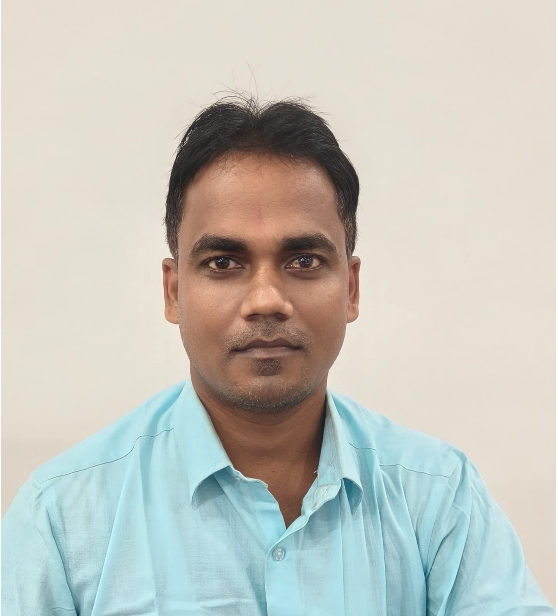
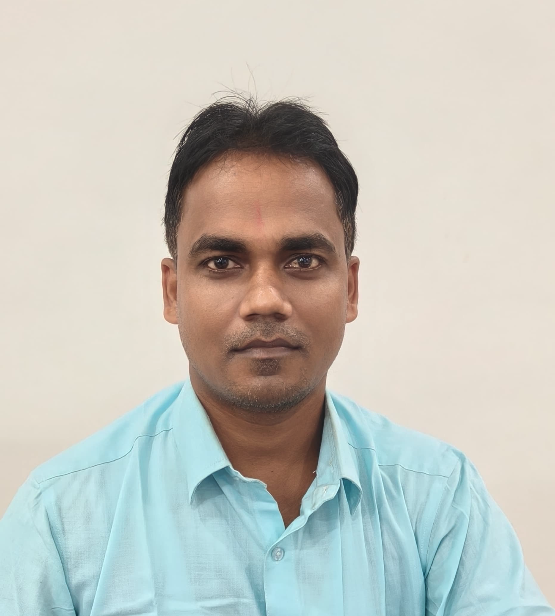
update themes

diff --git a/index.html b/index.html
@@ -58,7 +58,7 @@
   <script src="https://cdn.jsdelivr.net/npm/canvas-confetti@1.9.3/dist/confetti.browser.min.js"></script>
 
   <!-- Custom Design System Stylesheet -->
-  <link rel="stylesheet" href="assets/css/style.css?v=2.2">
+  <link rel="stylesheet" href="assets/css/style.css?v=2.4">
 </head>
 <body class="bg-[#f8fafc] dark:bg-[#070b14] text-slate-800 dark:text-slate-100 min-h-screen selection:bg-sky-500 selection:text-white relative overflow-x-hidden transition-colors duration-300">
 
@@ -83,7 +83,7 @@
       <!-- Brand / Logo -->
       <a href="#hero" class="flex items-center gap-3 group">
         <div class="relative w-11 h-11 rounded-2xl p-[2px] bg-gradient-to-tr from-sky-500 via-cyan-400 to-indigo-500 shadow-md shrink-0 transition-transform group-hover:scale-105 duration-300">
-          <img src="assets/images/dina-profile.png?v=2.2" alt="Dina Nath Maurya" class="w-full h-full object-cover rounded-[14px]">
+          <img src="assets/images/dina-profile.png?v=2.4" alt="Dina Nath Maurya" class="w-full h-full object-cover rounded-[14px]">
           <span class="absolute -bottom-1 -right-1 w-3.5 h-3.5 rounded-full bg-emerald-500 border-2 border-white dark:border-[#070b14] animate-pulse"></span>
         </div>
         <div>
@@ -268,52 +268,70 @@
 
         <!-- Profile Avatar & Badges Showcase -->
         <div class="lg:col-span-5 flex flex-col items-center justify-center order-1 lg:order-2 reveal-scale">
-          <div class="relative w-72 sm:w-80 md:w-88 aspect-square mb-6">
+          <div class="relative w-72 sm:w-80 aspect-[4/5] mb-5 profile-showcase-container group">
             
-            <!-- Conic Rotating Glow Ring -->
-            <div class="glow-ring-conic rounded-3xl"></div>
+            <!-- Dynamic Radiant Ambient Backlight Aura -->
+            <div class="profile-ambient-glow"></div>
 
-            <!-- Profile Image Container -->
-            <div class="w-full h-full rounded-3xl p-2.5 bg-white dark:bg-slate-900 border border-slate-200 dark:border-slate-800 shadow-2xl relative overflow-hidden group">
-              <img src="assets/images/dina-profile.png?v=2.2" alt="Dina Nath Maurya" class="w-full h-full object-cover rounded-2xl group-hover:scale-103 transition-transform duration-500">
-              <div class="absolute inset-0 bg-gradient-to-t from-slate-950/80 via-transparent to-transparent"></div>
+            <!-- Stylist Cyber Gradient Frame (2px Neon Contour, Zero Harsh White Line) -->
+            <div class="w-full h-full profile-cyber-card">
+              <div class="profile-inner-frame">
+                <!-- Tech HUD Reticle Corners -->
+                <span class="hud-corner hud-corner-tl"></span>
+                <span class="hud-corner hud-corner-tr"></span>
+                <span class="hud-corner hud-corner-bl"></span>
+                <span class="hud-corner hud-corner-br"></span>
 
-              <!-- Overlay Tag -->
-              <div class="absolute bottom-3 left-3 right-3 p-3 rounded-2xl bg-white/90 dark:bg-slate-900/90 backdrop-blur-md border border-white/40 dark:border-slate-800 flex items-center justify-between shadow-lg">
-                <div>
-                  <p class="text-xs sm:text-sm font-bold text-slate-900 dark:text-white font-heading">Dina Nath Maurya</p>
-                  <p class="text-[10px] text-sky-600 dark:text-cyan-400 font-mono">Senior Lead • Tryeno & Del-Qui Japan</p>
+                <!-- Real Portrait Photo (Zero Border Artifacts) -->
+                <img src="assets/images/dina-profile.png?v=2.4" alt="Dina Nath Maurya" class="profile-img-styled">
+
+                <!-- Smooth Cinematic Vignette at Base -->
+                <div class="profile-bottom-vignette"></div>
+
+                <!-- Integrated Bottom Identity Strip (Placed gently below neckline, never touching face) -->
+                <div class="absolute bottom-3 left-3 right-3 p-2.5 rounded-2xl bg-slate-950/85 backdrop-blur-md border border-white/10 flex items-center justify-between z-10 shadow-xl">
+                  <div class="flex items-center gap-2.5">
+                    <span class="relative flex h-2.5 w-2.5">
+                      <span class="animate-ping absolute inline-flex h-full w-full rounded-full bg-emerald-400 opacity-75"></span>
+                      <span class="relative inline-flex rounded-full h-2.5 w-2.5 bg-emerald-500"></span>
+                    </span>
+                    <div>
+                      <p class="text-xs sm:text-sm font-bold text-white font-heading leading-tight">Dina Nath Maurya</p>
+                      <p class="text-[10px] text-cyan-300 font-mono">Senior Flutter Lead • 6.5+ Yrs</p>
+                    </div>
+                  </div>
+                  <span class="text-[9px] font-mono font-bold px-2 py-0.5 rounded-md bg-emerald-500/20 text-emerald-300 border border-emerald-500/40">
+                    VERIFIED
+                  </span>
                 </div>
-                <span class="text-[10px] font-mono font-bold px-2.5 py-1 rounded-lg bg-sky-100 text-sky-800 dark:bg-sky-950 dark:text-cyan-300 border border-sky-300 dark:border-cyan-800">
-                  LEAD
-                </span>
               </div>
             </div>
 
-            <!-- Floating Badge 1 (Flutter) -->
-            <div class="absolute -top-3 -left-3 sm:-left-4 px-3.5 py-2 rounded-2xl bg-white/95 dark:bg-slate-900/95 border border-slate-200 dark:border-slate-800 shadow-xl flex items-center gap-2.5 animate-float-slow backdrop-blur-md">
-              <span class="text-base">⚡</span>
+            <!-- Floating Glass HUD Chips (Positioned safely outside photo boundaries) -->
+            <!-- Chip 1: Architecture (Top-Left) -->
+            <div class="glass-hud-chip -top-3.5 -left-3 sm:-left-5 animate-float-slow">
+              <span class="w-6 h-6 rounded-lg bg-sky-500/15 text-sky-600 dark:text-cyan-400 flex items-center justify-center font-bold text-xs">⚡</span>
               <div class="text-left">
-                <p class="text-[9px] text-slate-400 font-mono leading-none">Core</p>
-                <p class="text-xs font-bold text-slate-800 dark:text-white font-heading">Flutter 3.x & Dart</p>
+                <p class="text-[9px] text-slate-400 font-mono leading-none">Architecture</p>
+                <p class="text-xs font-bold text-slate-800 dark:text-white font-heading">Flutter 3.x Lead</p>
               </div>
             </div>
 
-            <!-- Floating Badge 2 (Shipped Apps) -->
-            <div class="absolute -bottom-3 -left-2 sm:-left-3 px-3.5 py-2 rounded-2xl bg-white/95 dark:bg-slate-900/95 border border-slate-200 dark:border-slate-800 shadow-xl flex items-center gap-2.5 animate-float-delayed backdrop-blur-md">
-              <span class="text-base">🚀</span>
+            <!-- Chip 2: Global Client (Top-Right) -->
+            <div class="glass-hud-chip -top-3.5 -right-3 sm:-right-5 animate-float-delayed">
+              <span class="w-6 h-6 rounded-lg bg-indigo-500/15 flex items-center justify-center text-xs">🇯🇵</span>
               <div class="text-left">
-                <p class="text-[9px] text-slate-400 font-mono leading-none">Stores</p>
+                <p class="text-[9px] text-slate-400 font-mono leading-none">Global Client</p>
+                <p class="text-xs font-bold text-slate-800 dark:text-white font-heading">Del-Qui Japan</p>
+              </div>
+            </div>
+
+            <!-- Chip 3: Production (Bottom-Right, floated outside) -->
+            <div class="glass-hud-chip -bottom-3.5 -right-3 sm:-right-5 animate-float-slow">
+              <span class="w-6 h-6 rounded-lg bg-emerald-500/15 text-emerald-600 dark:text-emerald-400 flex items-center justify-center font-bold text-xs">🚀</span>
+              <div class="text-left">
+                <p class="text-[9px] text-slate-400 font-mono leading-none">Production</p>
                 <p class="text-xs font-bold text-slate-800 dark:text-white font-heading">10 Live Store Apps</p>
-              </div>
-            </div>
-
-            <!-- Floating Badge 3 (Agora RTC) -->
-            <div class="absolute top-1/2 -right-3 sm:-right-5 px-3.5 py-2 rounded-2xl bg-white/95 dark:bg-slate-900/95 border border-slate-200 dark:border-slate-800 shadow-xl flex items-center gap-2.5 animate-float-slow backdrop-blur-md">
-              <span class="text-base">🎥</span>
-              <div class="text-left">
-                <p class="text-[9px] text-slate-400 font-mono leading-none">Real-Time</p>
-                <p class="text-xs font-bold text-slate-800 dark:text-white font-heading">Agora RTC & Sockets</p>
               </div>
             </div>
 
@@ -1042,6 +1060,6 @@
   </div>
 
   <!-- Main JavaScript Engine -->
-  <script src="assets/js/main.js?v=2.2"></script>
+  <script src="assets/js/main.js?v=2.4"></script>
 </body>
 </html>

diff --git a/assets/css/style.css b/assets/css/style.css
@@ -615,3 +615,150 @@ html.dark .dock-item:hover, html.dark .dock-item.active {
     height: 36px;
   }
 }
+
+/* ==========================================================================
+   Hero Profile Showcase (Sleek Cyber Glass Styling - Zero White Border)
+   ========================================================================== */
+.profile-showcase-container {
+  position: relative;
+  isolation: isolate;
+}
+
+.profile-ambient-glow {
+  position: absolute;
+  inset: -14px;
+  background: radial-gradient(circle at 30% 20%, rgba(6, 182, 212, 0.4), transparent 65%),
+              radial-gradient(circle at 70% 80%, rgba(99, 102, 241, 0.35), transparent 65%),
+              radial-gradient(circle at 50% 50%, rgba(14, 165, 233, 0.3), transparent 70%);
+  filter: blur(28px);
+  border-radius: 40px;
+  opacity: 0.85;
+  transition: opacity 0.5s ease, filter 0.5s ease;
+  z-index: 0;
+  pointer-events: none;
+}
+
+.profile-showcase-container:hover .profile-ambient-glow {
+  opacity: 1;
+  filter: blur(36px);
+}
+
+.profile-cyber-card {
+  position: relative;
+  border-radius: 32px;
+  padding: 2px;
+  background: linear-gradient(135deg, rgba(6, 182, 212, 0.85) 0%, rgba(59, 130, 246, 0.5) 35%, rgba(99, 102, 241, 0.75) 70%, rgba(20, 184, 166, 0.85) 100%);
+  box-shadow: 0 20px 50px -15px rgba(2, 132, 199, 0.25),
+              0 0 30px -5px rgba(6, 182, 212, 0.18);
+  overflow: hidden;
+  transition: transform 0.4s cubic-bezier(0.16, 1, 0.3, 1), box-shadow 0.4s ease;
+}
+
+.profile-showcase-container:hover .profile-cyber-card {
+  transform: translateY(-4px) scale(1.01);
+  box-shadow: 0 30px 60px -15px rgba(2, 132, 199, 0.35),
+              0 0 45px -5px rgba(6, 182, 212, 0.28);
+}
+
+.profile-inner-frame {
+  position: relative;
+  width: 100%;
+  height: 100%;
+  border-radius: 30px;
+  overflow: hidden;
+  background: #0b1121;
+}
+
+.profile-img-styled {
+  width: 100%;
+  height: 100%;
+  object-fit: cover;
+  object-position: top center;
+  display: block;
+  transition: transform 0.6s cubic-bezier(0.16, 1, 0.3, 1);
+}
+
+.profile-showcase-container:hover .profile-img-styled {
+  transform: scale(1.04);
+}
+
+.profile-bottom-vignette {
+  position: absolute;
+  inset: 0;
+  background: linear-gradient(to top, rgba(11, 17, 33, 0.82) 0%, rgba(11, 17, 33, 0.15) 28%, transparent 55%);
+  pointer-events: none;
+}
+
+/* Sleek Cyber HUD Tech Brackets */
+.hud-corner {
+  position: absolute;
+  width: 14px;
+  height: 14px;
+  pointer-events: none;
+  z-index: 10;
+  transition: all 0.3s ease;
+}
+.hud-corner-tl {
+  top: 12px;
+  left: 12px;
+  border-top: 2px solid #06b6d4;
+  border-left: 2px solid #06b6d4;
+  border-top-left-radius: 6px;
+}
+.hud-corner-tr {
+  top: 12px;
+  right: 12px;
+  border-top: 2px solid #06b6d4;
+  border-right: 2px solid #06b6d4;
+  border-top-right-radius: 6px;
+}
+.hud-corner-bl {
+  bottom: 12px;
+  left: 12px;
+  border-bottom: 2px solid #06b6d4;
+  border-left: 2px solid #06b6d4;
+  border-bottom-left-radius: 6px;
+}
+.hud-corner-br {
+  bottom: 12px;
+  right: 12px;
+  border-bottom: 2px solid #06b6d4;
+  border-right: 2px solid #06b6d4;
+  border-bottom-right-radius: 6px;
+}
+
+.profile-showcase-container:hover .hud-corner {
+  border-color: #38bdf8;
+  filter: drop-shadow(0 0 6px #06b6d4);
+}
+
+/* Floating Glass HUD Badges - Zero harsh white border */
+.glass-hud-chip {
+  position: absolute;
+  padding: 8px 14px;
+  border-radius: 18px;
+  background: rgba(15, 23, 42, 0.82);
+  backdrop-filter: blur(16px);
+  -webkit-backdrop-filter: blur(16px);
+  border: 1px solid rgba(56, 189, 248, 0.28);
+  box-shadow: 0 10px 25px -5px rgba(0, 0, 0, 0.3),
+              0 0 15px -3px rgba(6, 182, 212, 0.15);
+  display: flex;
+  align-items: center;
+  gap: 10px;
+  z-index: 20;
+  transition: transform 0.3s ease, border-color 0.3s ease, box-shadow 0.3s ease;
+}
+
+html:not(.dark) .glass-hud-chip {
+  background: rgba(255, 255, 255, 0.92);
+  border: 1px solid rgba(14, 165, 233, 0.28);
+  box-shadow: 0 10px 25px -5px rgba(15, 23, 42, 0.08),
+              0 0 15px -3px rgba(6, 182, 212, 0.12);
+}
+
+.glass-hud-chip:hover {
+  transform: translateY(-2px) scale(1.03);
+  border-color: rgba(56, 189, 248, 0.6);
+  box-shadow: 0 15px 30px -5px rgba(2, 132, 199, 0.25);
+}
